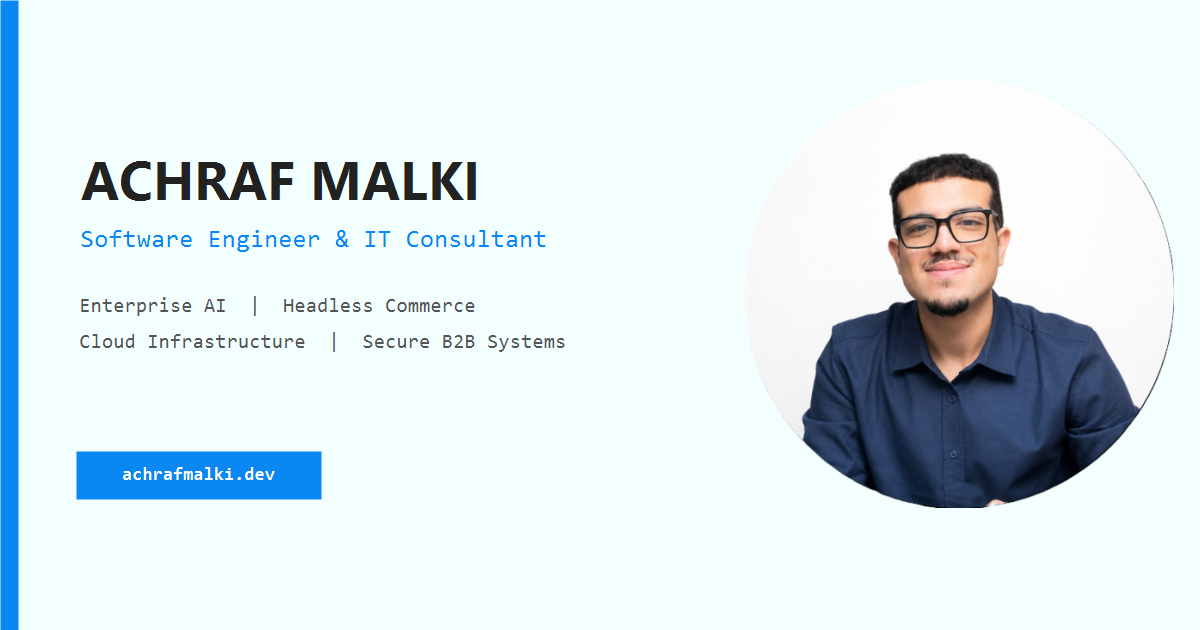
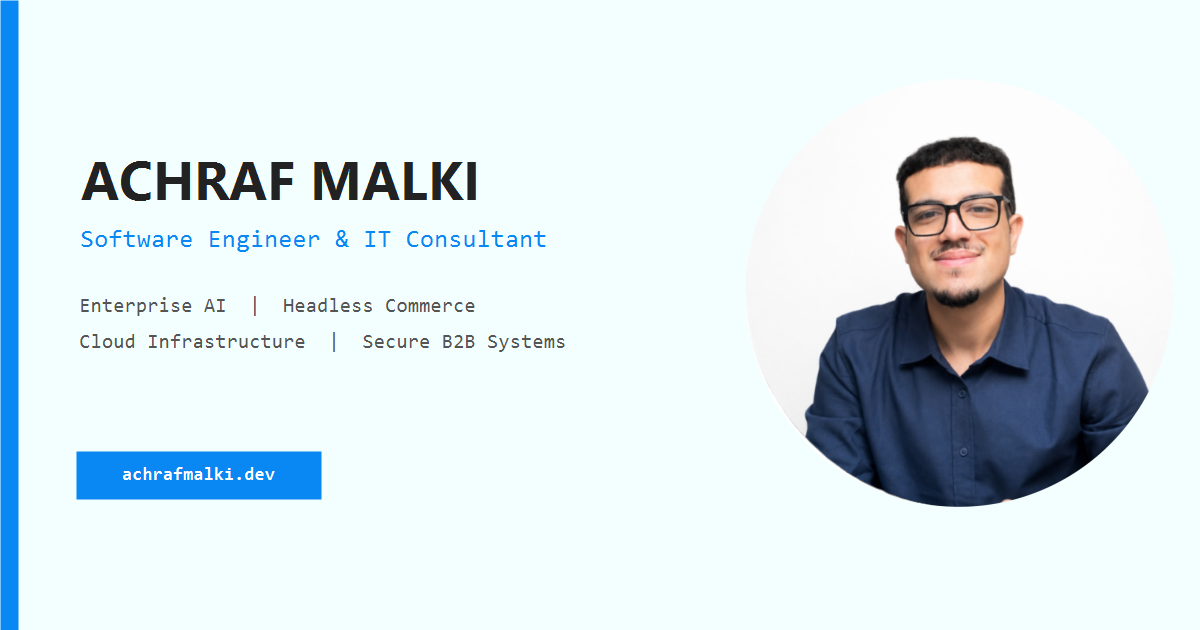
feat(hero): 1080px portrait via WebP sources, mobile hero fits first viewport
- Canonical /achraf-malki.png is now 1080x1080 with transparent corners; browsers load 400w/800w WebP through <picture> (11-25 KB instead of 247 KB)

Changed region(s): [[0.6475, 0.2111, 0.9558, 0.8143]]

diff --git a/src/sections/Hero/Hero.jsx b/src/sections/Hero/Hero.jsx
@@ -6,6 +6,8 @@ import githubDark from "../../assets/github-dark.svg";
 import linkedinLight from "../../assets/linkedin-light.svg";
 import linkedinDark from "../../assets/linkedin-dark.svg";
 import CV from "../../assets/cv.pdf";
+import portrait400 from "../../assets/portrait-400.webp";
+import portrait800 from "../../assets/portrait-800.webp";
 import ThemedImage from "../../common/ThemedImage";
 import { PORTRAIT, PROFILES } from "../../seo/site";
 import { useTranslation } from "../../i18n";
@@ -16,17 +18,26 @@ function Hero() {
   return (
     <section id="hero" className={styles.container}>
       <div className={styles.colorModeContainer}>
-        {/* Stable public/ URL shared with Person.image and the sitemap (see
-            seo/site.js). Never import it through Vite: that fingerprints it. */}
-        <img
-          className={styles.hero}
-          src={PORTRAIT.path}
-          alt={t.hero.portraitAlt}
-          width={PORTRAIT.width}
-          height={PORTRAIT.height}
-          fetchPriority="high"
-          decoding="async"
-        />
+        {/* <img src> is the canonical portrait Google indexes (stable public/
+            URL shared with Person.image and the sitemap; never import it
+            through Vite, which fingerprints it). Browsers download the small
+            WebP sources instead. Regenerate both: scripts/generate-portrait.py */}
+        <picture>
+          <source
+            type="image/webp"
+            srcSet={`${portrait400} 400w, ${portrait800} 800w`}
+            sizes="(min-width: 1400px) 400px, (min-width: 800px) 350px, (min-width: 769px) 200px, 140px"
+          />
+          <img
+            className={styles.hero}
+            src={PORTRAIT.path}
+            alt={t.hero.portraitAlt}
+            width={PORTRAIT.width}
+            height={PORTRAIT.height}
+            fetchPriority="high"
+            decoding="async"
+          />
+        </picture>
       </div>
       <div className={styles.info}>
         <h1>{t.hero.name}</h1>

diff --git a/src/sections/Hero/HeroStyles.module.css b/src/sections/Hero/HeroStyles.module.css
@@ -9,9 +9,11 @@
   padding-bottom: 20px;
 
   .hero {
+    display: block;
     max-width: 200px;
     width: 100%;
     height: auto;
+    margin-inline: auto;
     object-fit: contain;
   }
 
@@ -137,31 +139,52 @@
   .info > *:nth-child(6) { animation-delay: 620ms; }
 }
 
+/* Phones: the whole hero (portrait to resume buttons) fits the first
+   viewport down to 375x667, and clears the fixed nav island (~65px). */
 @media (max-width: 768px) {
   .container {
-    padding-top: 60px;
-    min-height: auto;
-    height: auto;
+    min-height: 100vh;
+    min-height: 100svh;
+    padding-top: 84px;
+    padding-bottom: 20px;
+    gap: 14px;
     margin-bottom: 40px;
+
+    .hero {
+      max-width: 140px;
+    }
+  }
+
+  .role {
+    font-size: 15px;
+  }
+
+  .tagline {
+    margin-top: 10px;
+    font-size: 13px;
+  }
+
+  .description {
+    margin-top: 14px;
+    font-size: 14px;
+    line-height: 1.55;
   }
 
   .cvButtons {
-    flex-direction: column;
-    gap: 0.8rem;
-    align-items: stretch;
-    max-width: 300px;
-    margin-left: auto;
-    margin-right: auto;
+    flex-wrap: wrap;
+    gap: 10px;
+    margin-top: 18px;
   }
 
+  /* Size to the label and never break it; on screens too narrow for both,
+     flex-wrap stacks them instead. */
   .cvButtons a {
-    display: flex;
-    width: 100%;
-  }
-
-  .cvButtons a {
-    width: 100%;
-    min-width: unset;
+    flex: 1 1 auto;
+    min-width: 0;
+    height: 44px;
+    padding: 0 16px;
+    font-size: 14px;
+    white-space: nowrap;
   }
 }
 

diff --git a/src/seo/site.js b/src/seo/site.js
@@ -2,7 +2,7 @@ export const SITE_URL = "https://achrafmalki.dev";
 
 // Canonical portrait: served from public/ at a stable, non-fingerprinted URL
 // and referenced by the hero image, Person.image and the sitemap.
-export const PORTRAIT = { path: "/achraf-malki.png", width: 500, height: 500 };
+export const PORTRAIT = { path: "/achraf-malki.png", width: 1080, height: 1080 };
 
 export const OG_IMAGE = { path: "/og.png", width: 1200, height: 630 };
 

diff --git a/scripts/generate-portrait.py b/scripts/generate-portrait.py
@@ -1,0 +1,59 @@
+"""Generate the portrait assets from a source photo.
+
+    python scripts/generate-portrait.py path/to/photo.png
+
+Writes:
+  public/achraf-malki.png            canonical image (Person.image, sitemap, the
+                                     hero <img src>): full resolution, circular
+                                     alpha mask, stable URL
+  src/assets/portrait-{400,800}.webp  what browsers actually download, via the
+                                     hero <picture> sources
+
+The source must be a square photo with the subject framed inside an inscribed
+circle (anything outside the circle becomes transparent, so the portrait works
+on both themes). Re-running on the canonical PNG is safe.
+
+After running: update PORTRAIT width/height in src/seo/site.js if the size
+changed, then run scripts/generate-og.ps1.
+
+Requires Pillow (pip install pillow).
+"""
+import sys
+from pathlib import Path
+
+from PIL import Image, ImageDraw
+
+ROOT = Path(__file__).resolve().parent.parent
+CANONICAL = ROOT / "public" / "achraf-malki.png"
+VARIANTS = {400: ROOT / "src" / "assets" / "portrait-400.webp",
+            800: ROOT / "src" / "assets" / "portrait-800.webp"}
+EDGE_INSET = 3  # px trimmed inside the circle to drop the anti-aliased white rim
+SUPERSAMPLE = 4
+
+
+def circular_mask(size):
+    big = size * SUPERSAMPLE
+    mask = Image.new("L", (big, big), 0)
+    inset = EDGE_INSET * SUPERSAMPLE
+    ImageDraw.Draw(mask).ellipse((inset, inset, big - inset - 1, big - inset - 1), fill=255)
+    return mask.resize((size, size), Image.LANCZOS)
+
+
+def main(source):
+    photo = Image.open(source).convert("RGBA")
+    if photo.width != photo.height:
+        sys.exit(f"source must be square, got {photo.width}x{photo.height}")
+
+    photo.putalpha(circular_mask(photo.width))
+    photo.save(CANONICAL, optimize=True)
+    print(f"{CANONICAL.relative_to(ROOT)}  {photo.width}x{photo.height}  {CANONICAL.stat().st_size / 1024:.0f} KB")
+
+    for width, path in VARIANTS.items():
+        photo.resize((width, width), Image.LANCZOS).save(path, "WEBP", quality=82, method=6)
+        print(f"{path.relative_to(ROOT)}  {width}x{width}  {path.stat().st_size / 1024:.0f} KB")
+
+
+if __name__ == "__main__":
+    if len(sys.argv) != 2:
+        sys.exit(__doc__)
+    main(sys.argv[1])

diff --git a/README.md b/README.md
@@ -64,7 +64,7 @@ npm run preview    # serve dist/ locally
 - **Engineering cases:** add the entry to `src/sections/ProjectSection/casesData.js` and its copy under `projects.cases` in both locales. It appears in the UI and the structured data.
 - **Certifications:** `src/sections/CertificationsSection/certificationsData.js`. `kind` must match how the issuer classifies the credential.
 - **Content date:** bump `CONTENT_UPDATED` in `src/seo/site.js` when page content changes (drives `dateModified` and sitemap `lastmod`).
-- **Portrait:** replace `public/achraf-malki.png` in place (keep the URL), then run `scripts/generate-og.ps1`.
+- **Portrait:** run `python scripts/generate-portrait.py path/to/photo.png` (square photo, subject inside an inscribed circle; needs Pillow). It rewrites the canonical `public/achraf-malki.png` at the same URL and the WebP sizes browsers load. Then update `PORTRAIT` in `src/seo/site.js` if the size changed, and run `scripts/generate-og.ps1`.
 
 ## Contact
 
